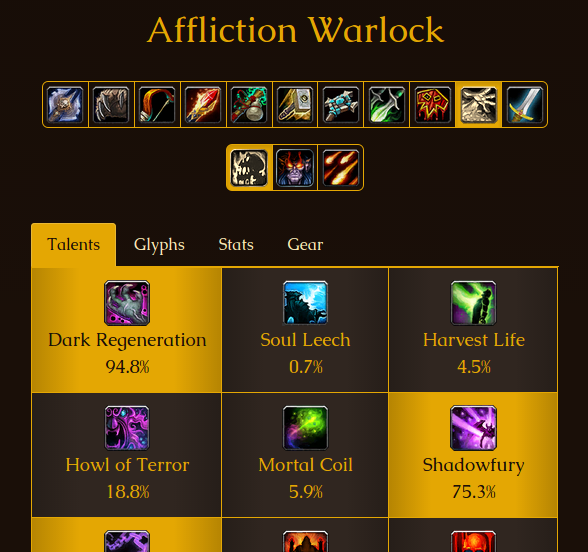
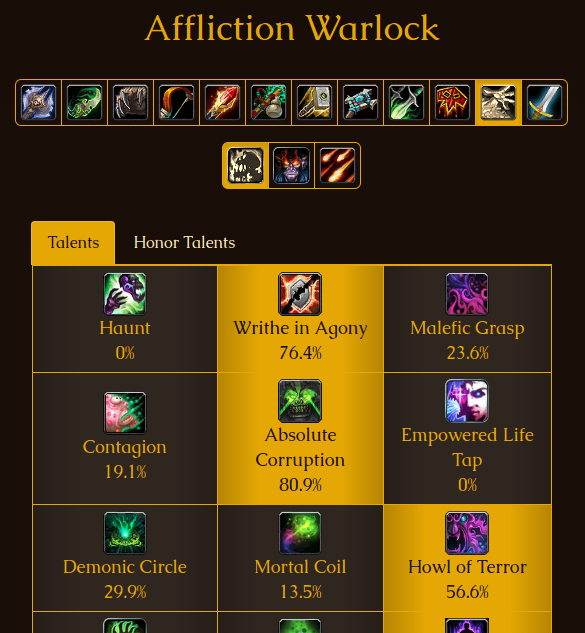
updated pvp leaderboard description and pic

diff --git a/index.html b/index.html
@@ -146,8 +146,8 @@
             <p>View on <a href="https://github.com/Exupery/DontCast">GitHub</a>.</p>
           </div>
           <div id="pvp">
-            <p><img id="pvp-screen" class="screenshot" src="images/pvp.png" alt="pvp leaderboard thumbnail" />As an avid <a href="https://worldofwarcraft.com/en-us/">World of Warcraft</a> PvPer I would frequently find myself looking up players on the leaderboards to see what choices they were making regarding talents, glyphs, and gear. This was a time-consuming process which limited the sample-size and so I created <a href="https://www.pvpleaderboard.com/">PvP Leaderboard</a>.</p>
-            <p>PvP Leaderboard looks up (daily) the players on each of the leaderboards and then provides the results (with optional <a href="https://www.pvpleaderboard.com/pvp/filter">filtering</a>) allowing someone to quickly and easily see the choices top players are making.</p>
+            <p><img id="pvp-screen" class="screenshot" src="images/pvp.png" alt="pvp leaderboard thumbnail" />As an avid <a href="https://worldofwarcraft.com/en-us/">World of Warcraft</a> PvPer I would frequently find myself looking up players on the leaderboards to see what talent choices they were making. This was a time-consuming process which limited the sample-size and so I created <a href="https://www.pvpleaderboard.com/">PvP Leaderboard</a>.</p>
+            <p>PvP Leaderboard looks up (daily) the players on each of the leaderboards and then provides the results (with optional <a href="https://www.pvpleaderboard.com/pvp/filter">filtering</a>) allowing someone to quickly and easily see the talents top players are choosing and view the US and EU leaderboards.</p>
             <p>On GitHub: <a href="https://github.com/Exupery/pvpleaderboard">web app</a> (Ruby on Rails), <a href="https://github.com/Exupery/pvpupdater">updater</a> (Scala).</p>
           </div>
           <div id="capstone">
